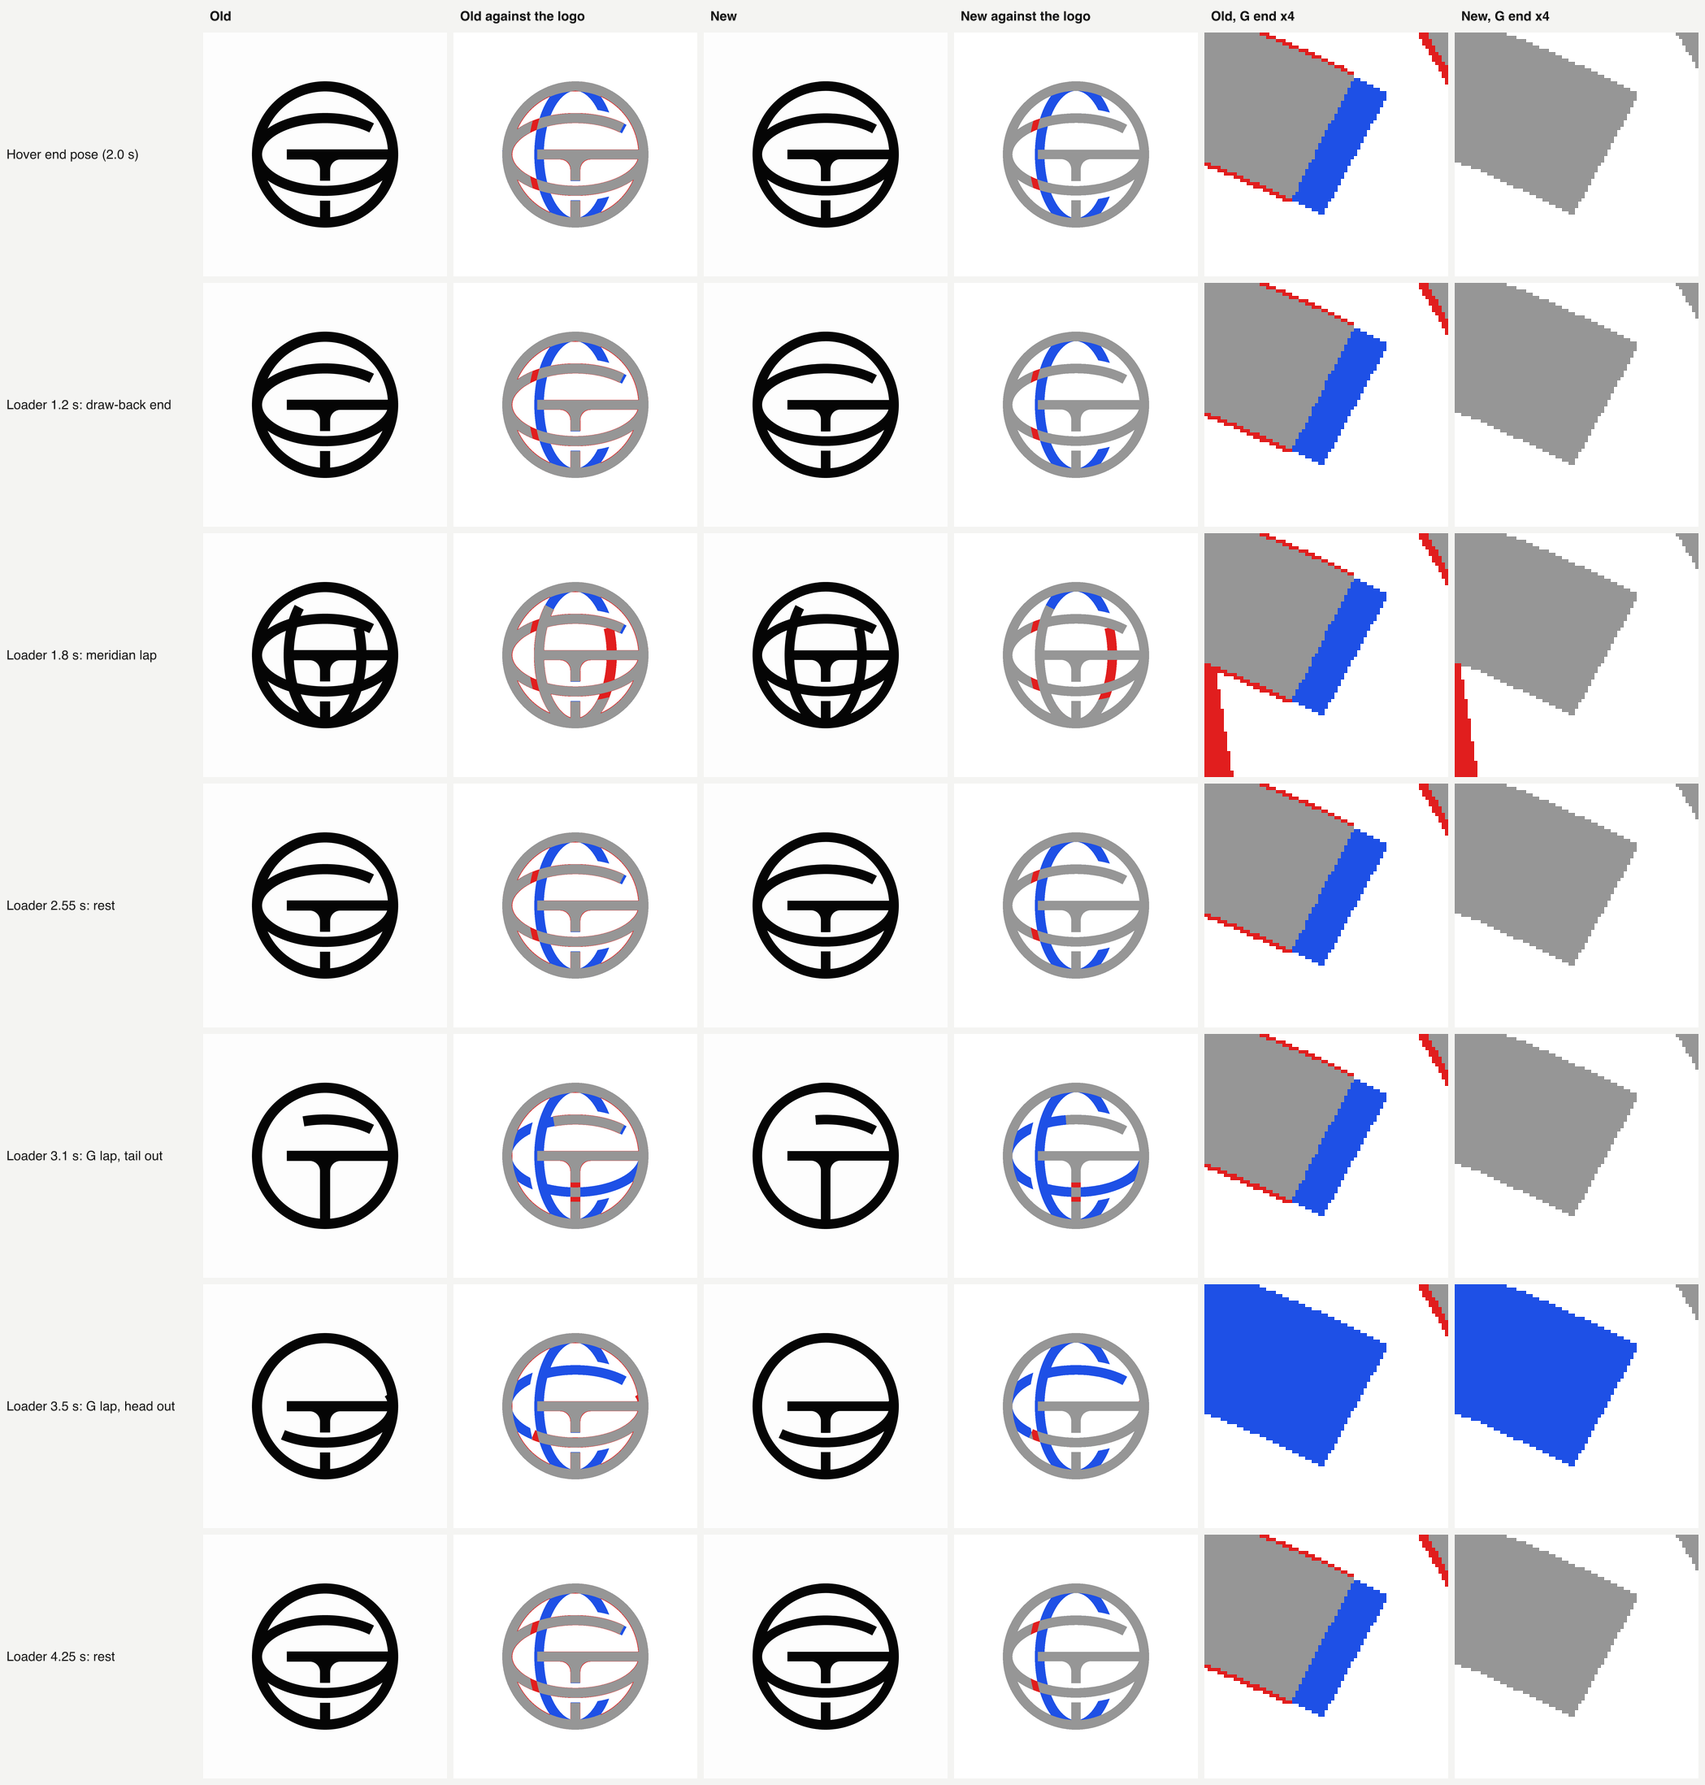
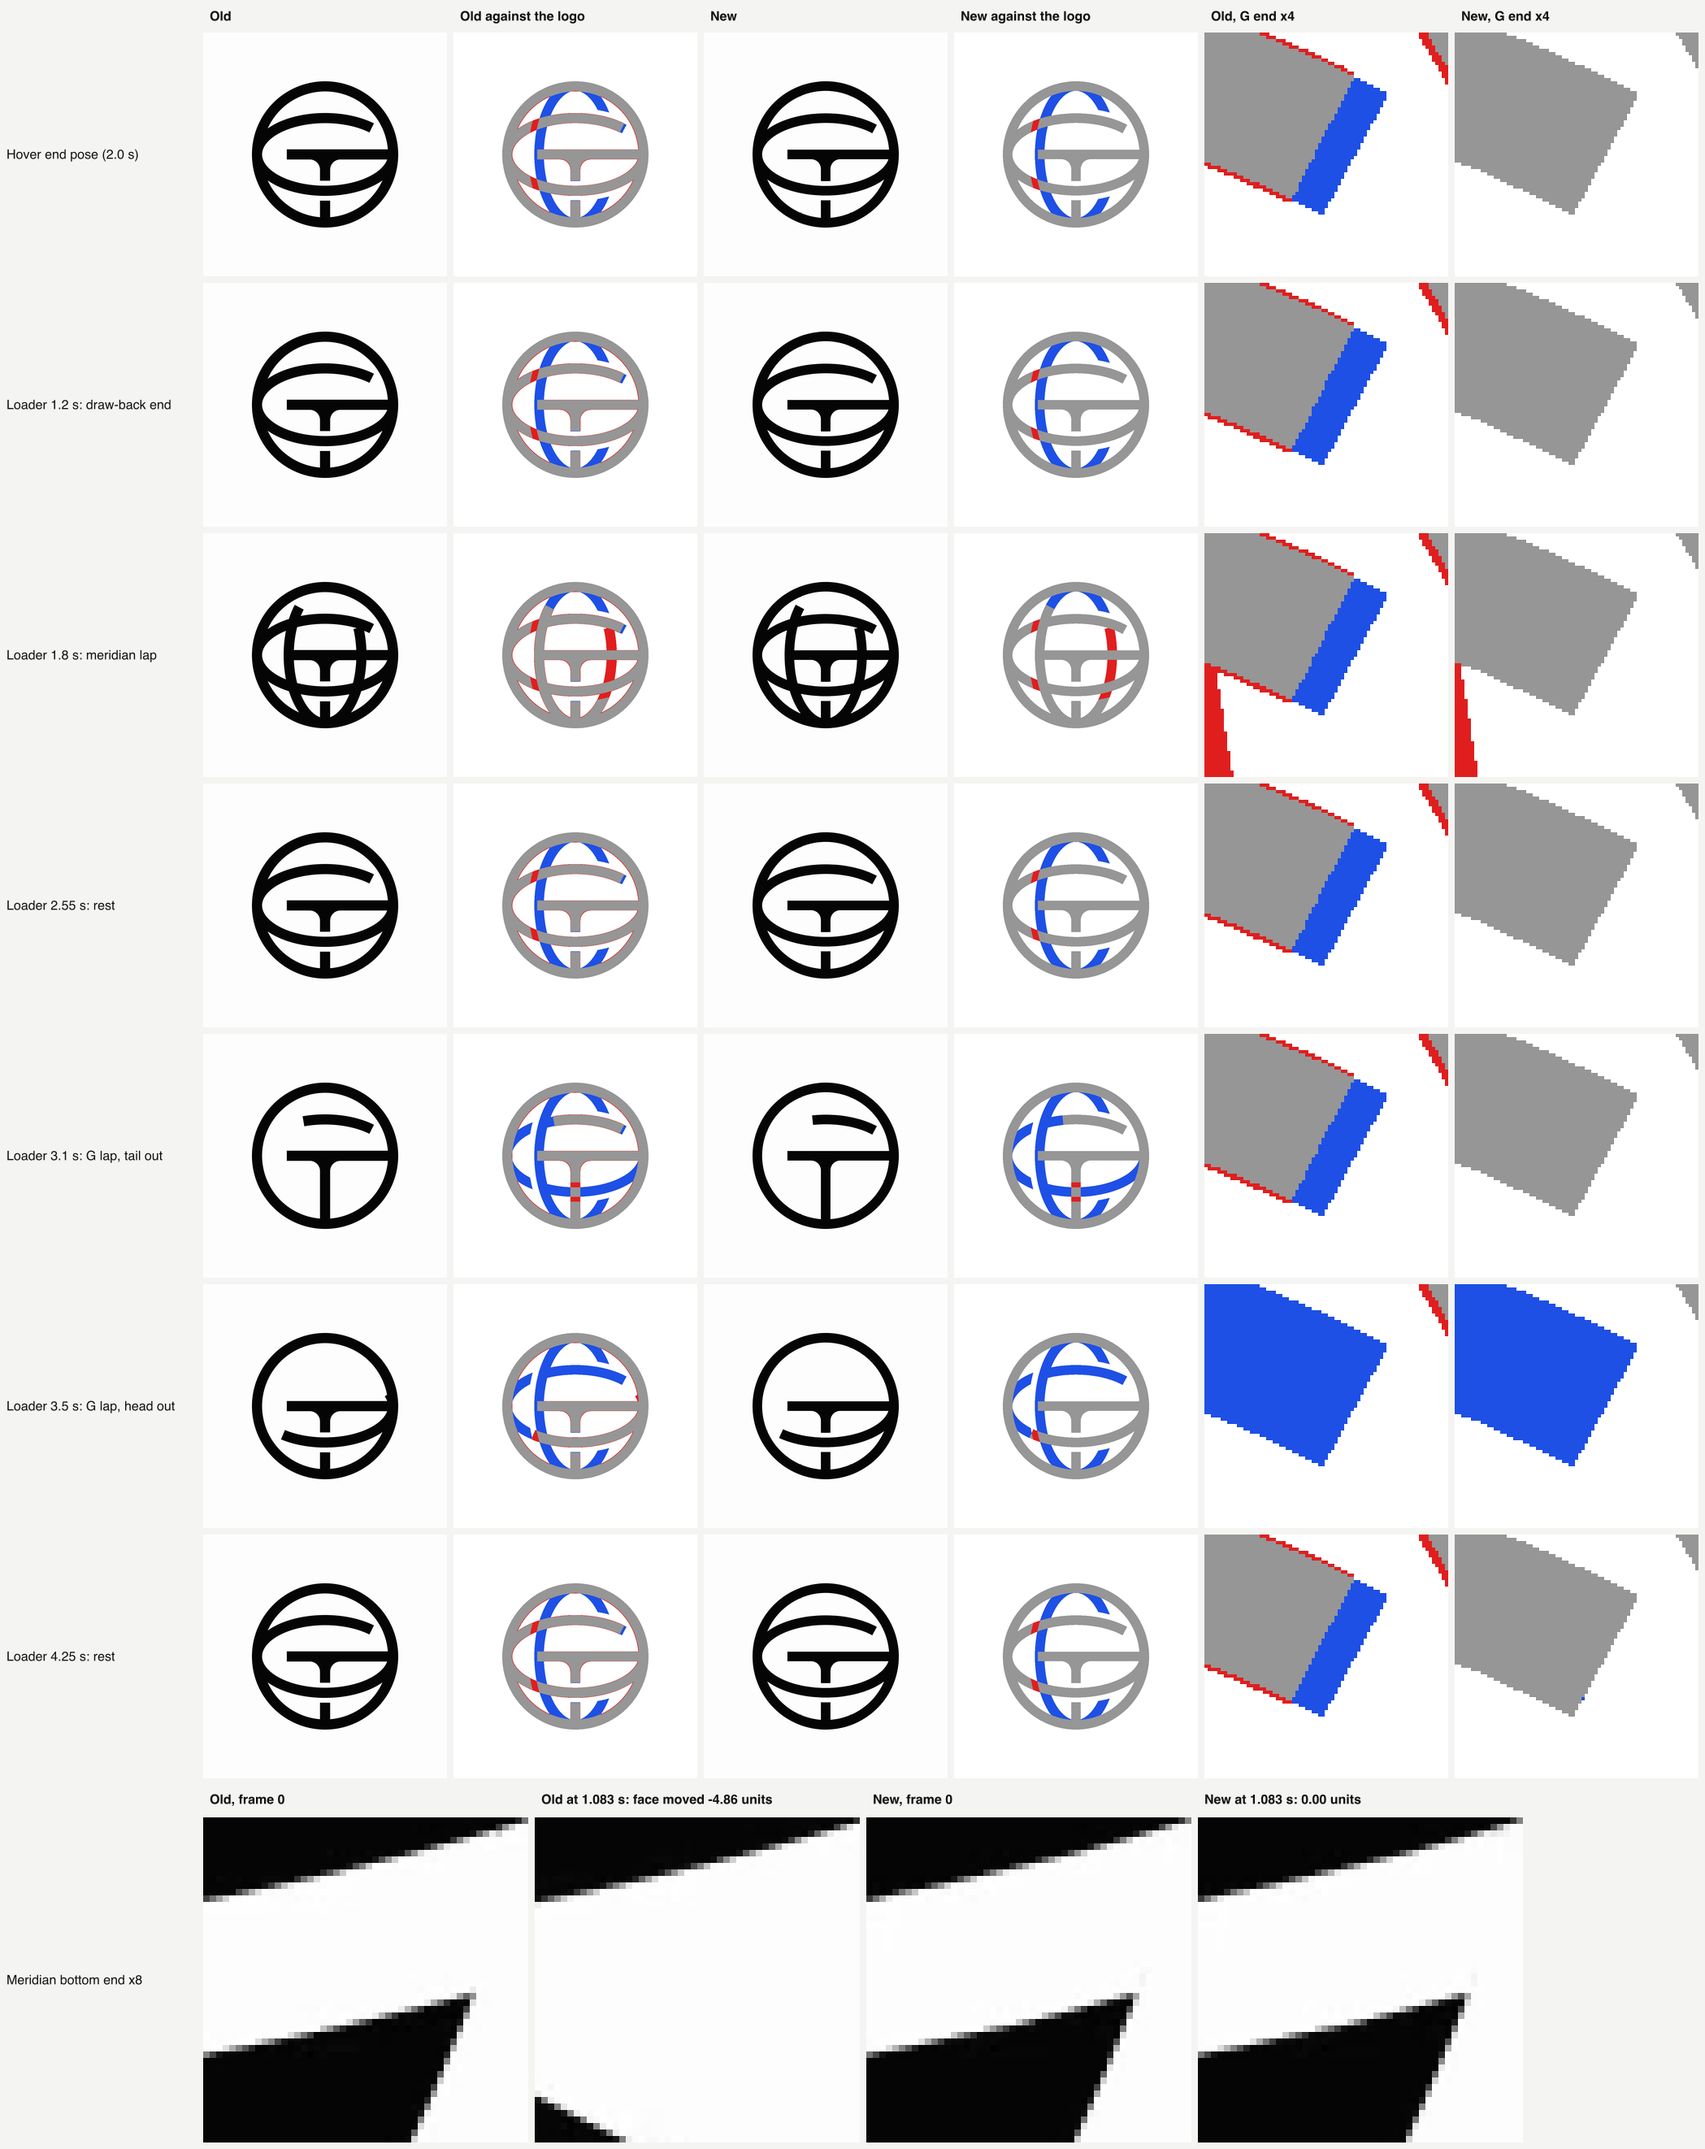
Show the final before and after sheet on /marks/loading
The sheet now sets the first loader against the final one and adds the
meridian's bottom cut face at 8x, which the first hover moved 4.86 units.

diff --git a/src/app/marks/loading/content.ts b/src/app/marks/loading/content.ts
@@ -173,7 +173,7 @@ export const FIX_LEAD =
   'Three fixes brought the loader to this state. The first keeps the logo the logo outside the moving line, the second makes the hover run in Safari, and the third keeps the ring off every mask, holds the meridian to its own ellipse and measures each dash on its path’s own length.';
 
 export const FIX_SHEET_CAPTION =
-  'Frames of the hover and the loader before and after the first fix. In the columns against the logo, grey is ink in both the frame and the logo, blue is ink only in the logo and red is ink only in the frame. Before, red edged every still part, because the motion layer drew them a little heavier than the logo. After, red is left only on the line that is moving and where the C closes behind the undrawn meridian. The last two columns show the G’s end at 4x: before, it stopped short of the logo’s tip, and after, it lands on it.';
+  'Frames of the hover and the loader from the first loader and from the final one. In the columns against the logo, grey is ink in both the frame and the logo, blue is ink only in the logo and red is ink only in the frame. Before, red edged every still part, because the motion layer drew them a little heavier than the logo, so the G’s top arc moved and the meridian’s C shrank. After, red is left only on the line that is moving and where the C closes behind the undrawn meridian. The G end at 4x: before, it stopped short of the logo’s tip, and after, it lands on it. The last row is the meridian’s bottom cut face at 8x: in the first hover it had moved 4.86 units by 1.083 seconds, and in the final one it has not moved.';
 
 export const SAFARI_CAPTION = {
   before:

diff --git a/src/app/marks/loading/LoadingViewer.tsx b/src/app/marks/loading/LoadingViewer.tsx
@@ -356,8 +356,8 @@ function LoadingBook({ sheetRef, jumpRef, activeOut, updated, timing }: BookProp
         <SheetFigure
           file='fix-sheet.webp'
           width={2098}
-          height={2196}
-          alt='Frames of the hover and the loader before and after the fix, each beside its difference from the logo'
+          height={2644}
+          alt='Frames of the hover and the loader from the first loader and the final one, each beside its difference from the logo, and the meridian’s bottom cut face at 8x'
           caption={FIX_SHEET_CAPTION}
           wide
         />
